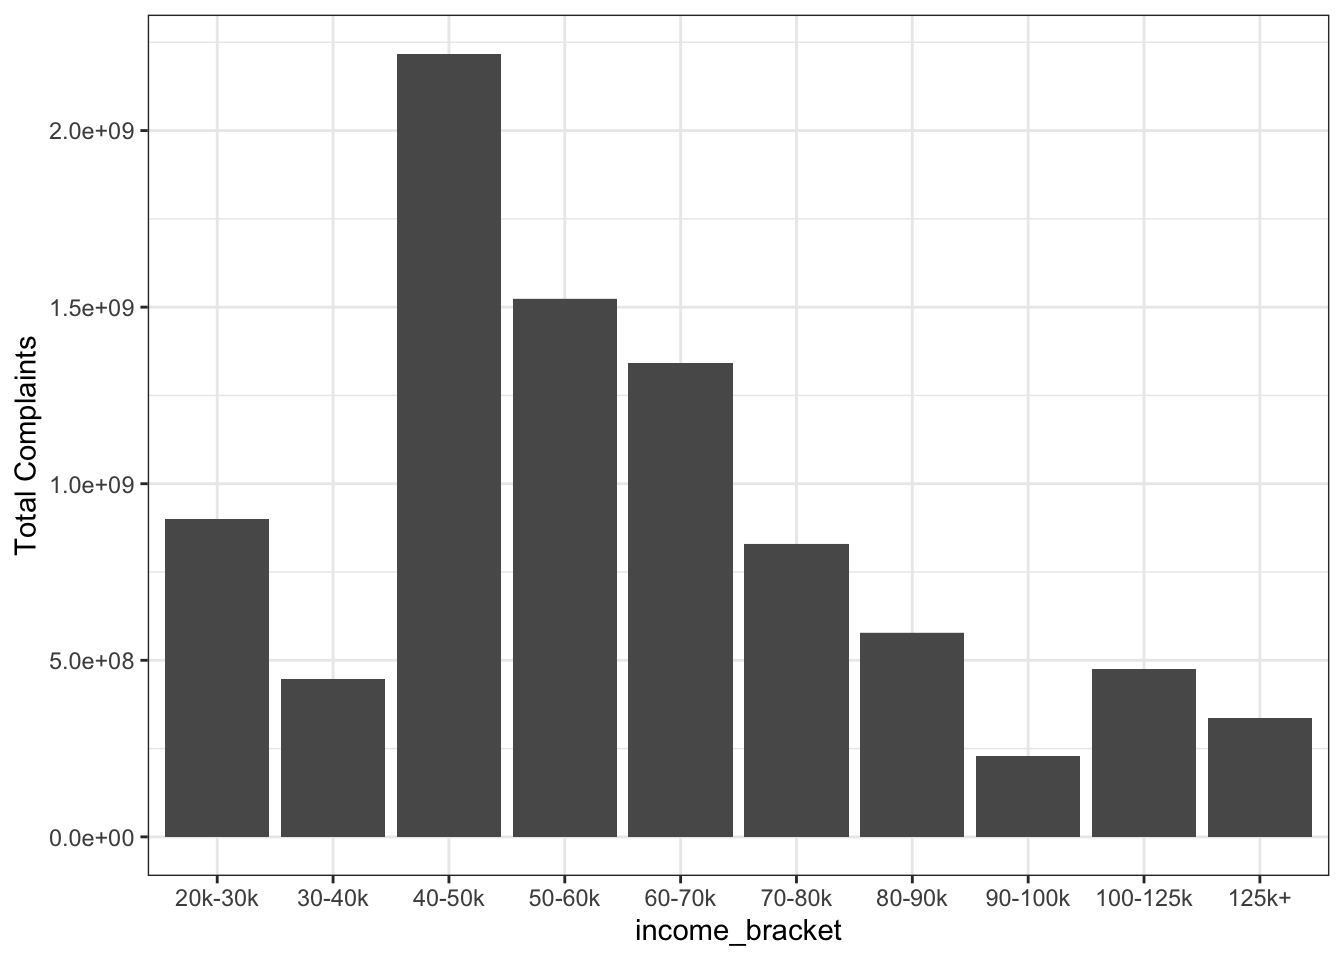
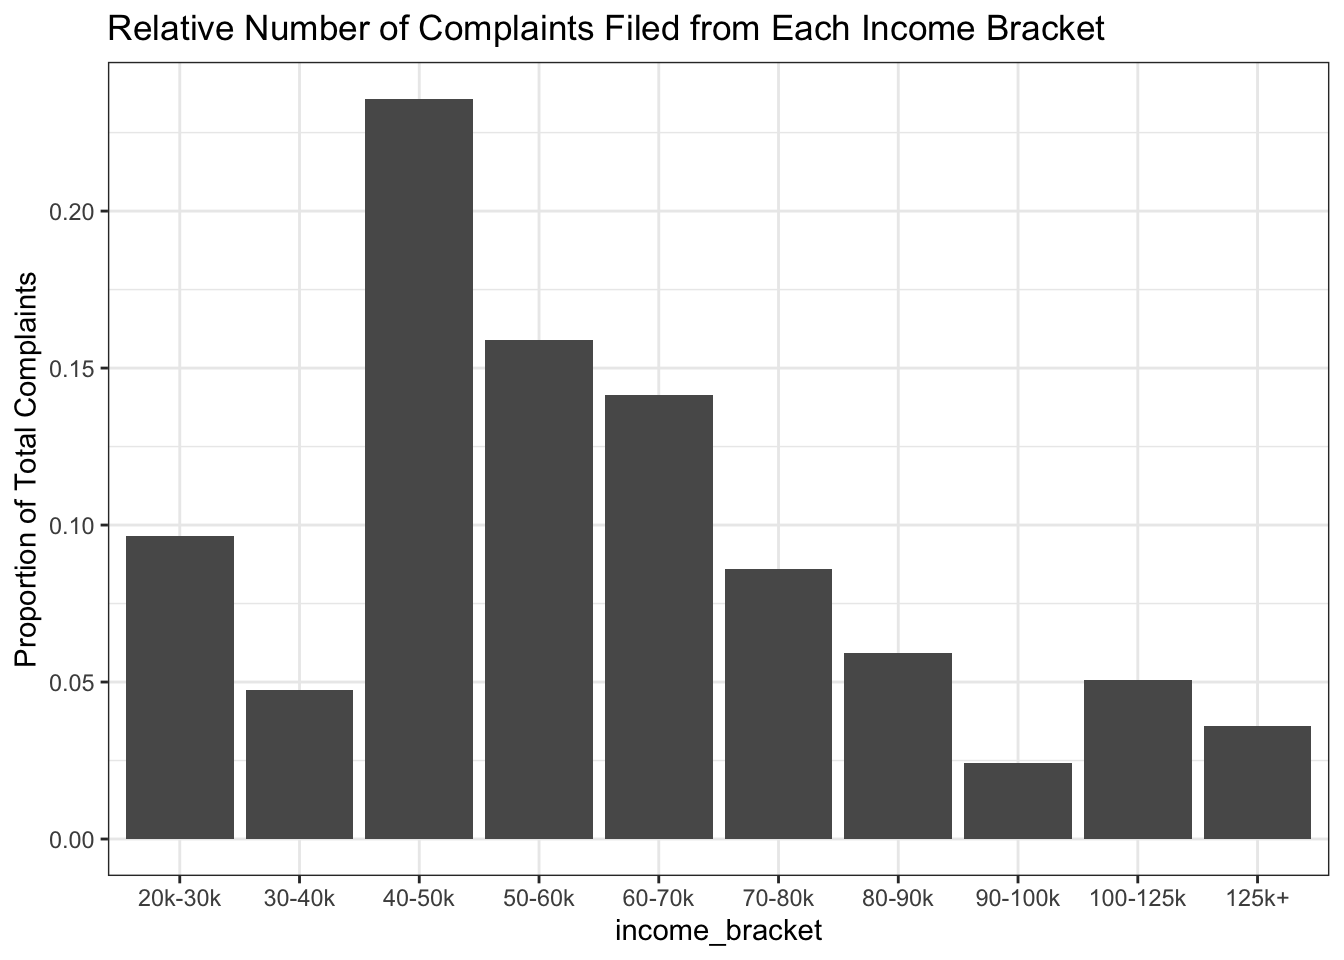
MM - Plotted proportion of complaints and open complaints by income brackets.

diff --git a/descript_stats_plots.html b/descript_stats_plots.html
@@ -512,77 +512,75 @@ $(document).ready(function () {
 <h1>Plots</h1>
 <div id="total-number-of-complaints" class="section level2">
 <h2>Total number of complaints</h2>
-<p>Complaints broken down by income bracket:</p>
+<p>Proportion complaints broken down by income bracket and then by income brakcet and borough:</p>
 <pre class="r"><code>nyc_plots %&gt;% 
     filter(!is.na(income_bracket)) %&gt;% 
-    group_by(borough, created_year) %&gt;% 
-    add_count(borough, name = &quot;borough_complaints&quot;) %&gt;% 
-    ggplot(aes(x = income_bracket, y = borough_complaints)) +
+    group_by(income_bracket) %&gt;% 
+    summarize(n = n(),
+              proportion = n/nrow(nyc_plots)) %&gt;% 
+    ggplot(aes(x = income_bracket, y = proportion)) +
     geom_col() +
-    ylab(&quot;Total Complaints&quot;)</code></pre>
+    ylab(&quot;Proportion of Total Complaints&quot;) +
+    ggtitle(&quot;Relative Number of Complaints Filed from Each Income Bracket&quot;)</code></pre>
 <p><img src="descript_stats_plots_files/figure-html/unnamed-chunk-4-1.png" width="672" /></p>
+<pre class="r"><code>nyc_plots %&gt;% 
+    filter(!is.na(income_bracket)) %&gt;% 
+    group_by(income_bracket, borough) %&gt;% 
+    summarize(n = n(),
+              proportion = n/nrow(nyc_plots)) %&gt;% 
+    ggplot(aes(x = income_bracket, y = proportion)) +
+    geom_col() +
+    ylab(&quot;Proportion of Total Complaints&quot;) +
+    facet_wrap(~borough, scales = &quot;free_x&quot;)</code></pre>
+<p><img src="descript_stats_plots_files/figure-html/unnamed-chunk-4-2.png" width="672" /></p>
+<p>Middle class income groups proportionally file the most complaints across all income brackets. The only exception is the Bronx, in which the proportion of 311 complaints is higher in the lowest income group.</p>
 <p>Total complaints within each neighborhood of each borough:</p>
 <pre class="r"><code>nyc_plots %&gt;% 
-    filter(borough == &quot;BRONX&quot;,
-           !is.na(area_name)) %&gt;% 
-    group_by(area_name) %&gt;% 
-    add_count(area_name, name = &quot;neighborhood_complaints&quot;) %&gt;% 
-    ggplot(aes(x = area_name, y = neighborhood_complaints)) +
+    filter(!is.na(area_name)) %&gt;% 
+    group_by(area_name, borough) %&gt;% 
+    summarize(n = n()) %&gt;% 
+    ggplot(aes(x = area_name, y = n)) +
     geom_col() +
     ylab(&quot;Total Complaints&quot;) +
     xlab(&quot;Neighborhood&quot;) +
     theme(axis.text.x = element_text(angle = 60, hjust = 1)) +
-    ggtitle(&quot;Bronx Complaints by Neighborhood&quot;)</code></pre>
+    ggtitle(&quot;Complaints by Neighborhood&quot;) +
+    facet_wrap(~borough, scales = &quot;free_x&quot;)</code></pre>
 <p><img src="descript_stats_plots_files/figure-html/unnamed-chunk-5-1.png" width="672" /></p>
+<p>Total number of <code>complaint_simp</code> broken down by each borough and income bracket:</p>
+<p>Should I change this to median number?</p>
 <pre class="r"><code>nyc_plots %&gt;% 
-    filter(borough == &quot;MANHATTAN&quot;,
-           !is.na(area_name)) %&gt;% 
-    group_by(area_name) %&gt;% 
-    add_count(area_name, name = &quot;neighborhood_complaints&quot;) %&gt;% 
-    ggplot(aes(x = area_name, y = neighborhood_complaints)) +
+    filter(!is.na(income_bracket),
+           !is.na(complaint_simp)) %&gt;% 
+    group_by(income_bracket, borough, complaint_simp) %&gt;% 
+    summarize(n = n(),
+              proportion = n/nrow(nyc_plots)) %&gt;% 
+    ggplot(aes(x = income_bracket, y = proportion, fill = complaint_simp)) +
     geom_col() +
-    ylab(&quot;Total Complaints&quot;) +
-    xlab(&quot;Neighborhood&quot;) +
-    theme(axis.text.x = element_text(angle = 60, hjust = 1)) +
-    ggtitle(&quot;Manhattan Complaints by Neighborhood&quot;)</code></pre>
-<p><img src="descript_stats_plots_files/figure-html/unnamed-chunk-5-2.png" width="672" /></p>
-<pre class="r"><code>nyc_plots %&gt;% 
-    filter(borough == &quot;QUEENS&quot;,
-           !is.na(area_name)) %&gt;% 
-    group_by(area_name) %&gt;% 
-    add_count(area_name, name = &quot;neighborhood_complaints&quot;) %&gt;% 
-    ggplot(aes(x = area_name, y = neighborhood_complaints)) +
-    geom_col() +
-    ylab(&quot;Total Complaints&quot;) +
-    xlab(&quot;Neighborhood&quot;) +
-    theme(axis.text.x = element_text(angle = 60, hjust = 1)) +
-    ggtitle(&quot;Queens Complaints by Neighborhood&quot;)</code></pre>
-<p><img src="descript_stats_plots_files/figure-html/unnamed-chunk-5-3.png" width="672" /></p>
-<pre class="r"><code>nyc_plots %&gt;% 
-    filter(borough == &quot;BROOKLYN&quot;,
-           !is.na(area_name)) %&gt;% 
-    group_by(area_name) %&gt;% 
-    add_count(area_name, name = &quot;neighborhood_complaints&quot;) %&gt;% 
-    ggplot(aes(x = area_name, y = neighborhood_complaints)) +
-    geom_col() +
-    ylab(&quot;Total Complaints&quot;) +
-    xlab(&quot;Neighborhood&quot;) +
-    theme(axis.text.x = element_text(angle = 60, hjust = 1)) +
-    ggtitle(&quot;Brooklyn Complaints by Neighborhood&quot;)</code></pre>
-<p><img src="descript_stats_plots_files/figure-html/unnamed-chunk-5-4.png" width="672" /></p>
-<pre class="r"><code>nyc_plots %&gt;% 
-    filter(borough == &quot;STATEN ISLAND&quot;,
-           !is.na(area_name)) %&gt;% 
-    group_by(area_name) %&gt;% 
-    add_count(area_name, name = &quot;neighborhood_complaints&quot;) %&gt;% 
-    ggplot(aes(x = area_name, y = neighborhood_complaints)) +
-    geom_col() +
-    ylab(&quot;Total Complaints&quot;) +
-    xlab(&quot;Neighborhood&quot;) +
-    theme(axis.text.x = element_text(angle = 60, hjust = 1)) +
-    ggtitle(&quot;Staten Island Complaints by Neighborhood&quot;)</code></pre>
-<p><img src="descript_stats_plots_files/figure-html/unnamed-chunk-5-5.png" width="672" /></p>
+    facet_wrap(~borough)</code></pre>
+<p><img src="descript_stats_plots_files/figure-html/unnamed-chunk-6-1.png" width="672" /></p>
 </div>
+</div>
+<div id="proportion-of-unsolved-cases-by-income-bracket" class="section level1">
+<h1>Proportion of unsolved cases by income bracket</h1>
+<pre class="r"><code>p &lt;- nyc_plots %&gt;% 
+    filter(!is.na(income_bracket)) %&gt;% 
+    group_by(income_bracket, borough, open_complaint) %&gt;% 
+    summarize(n = n()) %&gt;% 
+    pivot_wider(names_from = open_complaint, values_from = n) %&gt;% 
+    rename(closed = &#39;0&#39;,
+           open = &#39;1&#39;)
+
+p %&gt;% mutate(proportion = (open/closed)) %&gt;% 
+    ggplot(aes(x = income_bracket, y = proportion)) +
+    geom_col() +
+    facet_wrap(~borough, scales = &quot;free_x&quot;) +
+    ggtitle(&quot;Proportion of Open Cases Within Each Income Bracket&quot;)</code></pre>
+<p><img src="descript_stats_plots_files/figure-html/unnamed-chunk-7-1.png" width="672" /></p>
+<ul>
+<li>number unsolved (open) cases versus income bracket - look at health complaints.</li>
+<li>number of unsolved (open) cases within each neighborhood with color representing proportion black, hispanic</li>
+</ul>
 </div>
 
 
